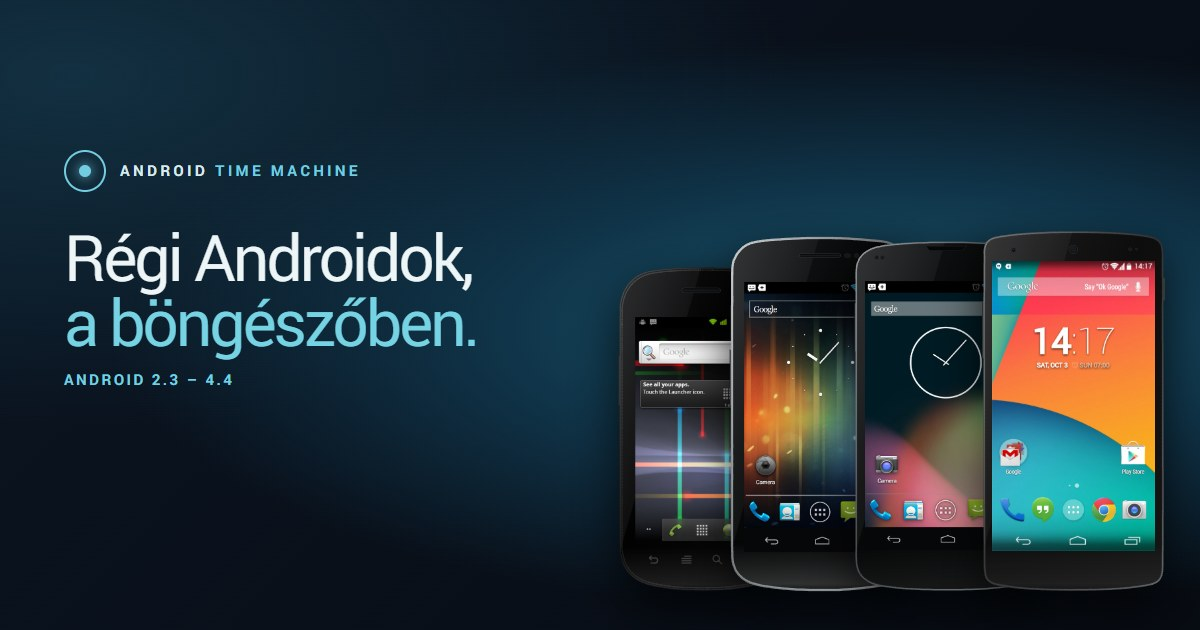
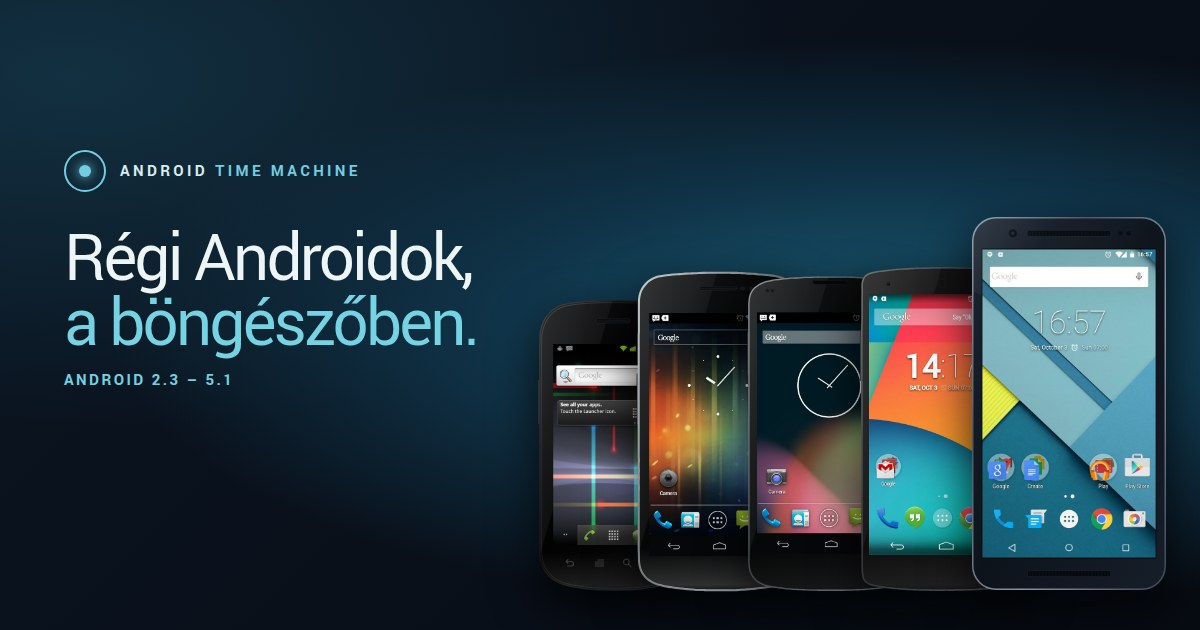
Lollipop 5.1.1 release: catalog entry available, landing shot, page header and five-phone og cover
- The catalog card is AVAILABLE with a new description and a landing shot
  of the stock Nexus 6 home.
- The 5.1.1 page header, meta tags and footer now describe Lollipop on the
  Nexus 6 (English, Hungarian, German, French and Spanish).
- The og cover adds the Nexus 6 (Android 2.3 – 5.1); every page points to
  og-cover.jpg?v=7.
- Drops the unused "on its way" placeholder strings.

Changed region(s): [[0.4317, 0.3317, 0.9867, 0.9349], [0.0617, 0.3619, 0.4008, 0.573], [0.5858, 0.9349, 0.6167, 0.9651]]

diff --git a/i18n.js b/i18n.js
@@ -592,9 +592,7 @@
     ['Tomorrow','Holnap','Morgen','Demain','Mañana'],
     ["IN PROGRESS","KÉSZÜLŐBEN","IN ARBEIT","EN COURS","EN DESARROLLO"],
     ["WORK IN PROGRESS","KÉSZÜLŐBEN","IN ARBEIT","EN COURS DE CRÉATION","EN DESARROLLO"],
-    ["Material Design on the Nexus 6: the new notification shade, heads-up notifications, Overview cards and Smart Lock.","Material Design a Nexus 6-on: új értesítési panel, felugró értesítések, Áttekintés-kártyák és Smart Lock.","Material Design auf dem Nexus 6: neue Benachrichtigungsleiste, Heads-up-Benachrichtigungen, Übersichtskarten und Smart Lock.","Material Design sur le Nexus 6 : nouveau volet des notifications, notifications prioritaires, cartes Aperçu et Smart Lock.","Material Design en el Nexus 6: nuevo panel de notificaciones, notificaciones emergentes, tarjetas de Vista general y Smart Lock."],
-    ["Android 5.1.1 Lollipop on the Nexus 6 is on its way: Material Design, the new notification shade with heads-up notifications, the Overview cards and Smart Lock. Until it is ready, the phone is busy updating itself.","Az Android 5.1.1 Lollipop a Nexus 6-on úton van: Material Design, az új értesítési panel felugró értesítésekkel, az Áttekintés-kártyák és a Smart Lock. Amíg elkészül, a telefon épp frissíti magát.","Android 5.1.1 Lollipop auf dem Nexus 6 ist unterwegs: Material Design, die neue Benachrichtigungsleiste mit Heads-up-Benachrichtigungen, die Übersichtskarten und Smart Lock. Bis es so weit ist, aktualisiert sich das Telefon gerade selbst.","Android 5.1.1 Lollipop sur le Nexus 6 arrive bientôt : Material Design, le nouveau volet des notifications avec les notifications prioritaires, les cartes Aperçu et Smart Lock. En attendant, le téléphone est en pleine mise à jour.","Android 5.1.1 Lollipop en el Nexus 6 está en camino: Material Design, el nuevo panel de notificaciones con notificaciones emergentes, las tarjetas de Vista general y Smart Lock. Mientras tanto, el teléfono se está actualizando."],
-    ["This version cannot be used yet. The other versions are available on the home page.","Ez a verzió még nem használható. A többi verzió a kezdőlapon érhető el.","Diese Version ist noch nicht nutzbar. Die anderen Versionen finden Sie auf der Startseite.","Cette version n'est pas encore utilisable. Les autres versions sont disponibles sur la page d'accueil.","Esta versión todavía no se puede usar. Las demás versiones están disponibles en la página de inicio."],
+    ["Material Design with the Google Now Launcher, the new notification shade, heads-up notifications, Overview cards, Smart Lock and the Lollipop Land easter egg.","Material Design a Google Now Launcherrel, új értesítési panel, felugró értesítések, Áttekintés-kártyák, Smart Lock és a Lollipop Land húsvéti tojás.","Material Design mit dem Google Now Launcher, neue Benachrichtigungsleiste, Heads-up-Benachrichtigungen, Übersichtskarten, Smart Lock und das Lollipop-Land-Easter-Egg.","Material Design avec le Google Now Launcher, nouveau volet des notifications, notifications prioritaires, cartes Aperçu, Smart Lock et l'easter egg Lollipop Land.","Material Design con Google Now Launcher, nuevo panel de notificaciones, notificaciones emergentes, tarjetas de Vista general, Smart Lock y el huevo de Pascua Lollipop Land."],
     ["English (US)","Angol (USA)","Englisch (USA)","Anglais (États-Unis)","Inglés (EE. UU.)"],
     ["Speak now","Beszéljen most","Jetzt sprechen","Parlez maintenant","Habla ahora"],
     ["Didn’t catch that. Try speaking again.","Nem értettem. Próbálja újra.","Das habe ich nicht verstanden. Versuchen Sie es noch einmal.","Je n'ai pas compris. Veuillez réessayer.","No te he entendido. Vuelve a intentarlo."],
@@ -829,6 +827,8 @@
     ["To create one like this, touch & hold an app, then move it over another.","Mappa létrehozásához érintse meg és tartsa lenyomva az alkalmazást, majd húzza egy másik fölé.","Um einen Ordner zu erstellen, berühren und halten Sie eine App und verschieben Sie sie auf eine andere.","Pour en créer un, appuyez de manière prolongée sur une application, puis déplacez-la vers une autre.","Para crear una carpeta como esta, mantén pulsada una aplicación y muévela sobre otra."],
     ["Android 4.4 KitKat as it ran on the Nexus 5 in 2014. Translucent system bars, the white status icons, swipe between home screens, open the apps, or look for the KitKat logo under Settings → About phone.","Az Android 4.4 KitKat, ahogy 2014-ben a Nexus 5-ön futott. Áttetsző rendszersávok, fehér állapotikonok; lapozzon a kezdőképernyők között, nyissa meg az alkalmazásokat, vagy keresse meg a KitKat logót a Beállítások → A telefonról menüben.","Android 4.4 KitKat, wie es 2014 auf dem Nexus 5 lief. Transparente Systemleisten, weiße Statussymbole; wischen Sie zwischen den Startbildschirmen, öffnen Sie die Apps oder suchen Sie das KitKat-Logo unter Einstellungen → Über das Telefon.","Android 4.4 KitKat tel qu'il fonctionnait sur le Nexus 5 en 2014. Barres système translucides, icônes d'état blanches ; balayez entre les écrans d'accueil, ouvrez les applications ou cherchez le logo KitKat dans Paramètres → À propos du téléphone.","Android 4.4 KitKat tal como funcionaba en el Nexus 5 en 2014. Barras del sistema translúcidas e iconos de estado blancos; desliza entre pantallas de inicio, abre las aplicaciones o busca el logotipo de KitKat en Ajustes → Información del teléfono."],
     ["Browser simulator inspired by AOSP Android 4.4","Az AOSP Android 4.4 ihlette böngészős szimulátor","Browser-Simulator nach dem Vorbild von AOSP Android 4.4","Simulateur web inspiré d'AOSP Android 4.4","Simulador web inspirado en AOSP Android 4.4"],
+    ["Android 5.1 Lollipop as it ran on the Nexus 6 in 2015. Material Design, heads-up notifications and the Overview cards; swipe between home screens, open the apps, or tap the version under Settings → About phone a few times.","Az Android 5.1 Lollipop, ahogy 2015-ben a Nexus 6-on futott. Material Design, felugró értesítések és az Áttekintés-kártyák; lapozzon a kezdőképernyők között, nyissa meg az alkalmazásokat, vagy koppintson néhányszor a verzióra a Beállítások → A telefonról menüben.","Android 5.1 Lollipop, wie es 2015 auf dem Nexus 6 lief. Material Design, Heads-up-Benachrichtigungen und die Übersichtskarten; wischen Sie zwischen den Startbildschirmen, öffnen Sie die Apps oder tippen Sie unter Einstellungen → Über das Telefon mehrmals auf die Version.","Android 5.1 Lollipop tel qu'il fonctionnait sur le Nexus 6 en 2015. Material Design, notifications prioritaires et cartes Aperçu ; balayez entre les écrans d'accueil, ouvrez les applications ou appuyez plusieurs fois sur la version dans Paramètres → À propos du téléphone.","Android 5.1 Lollipop tal como funcionaba en el Nexus 6 en 2015. Material Design, notificaciones emergentes y tarjetas de Vista general; desliza entre pantallas de inicio, abre las aplicaciones o toca varias veces la versión en Ajustes → Información del teléfono."],
+    ["Browser simulator inspired by AOSP Android 5.1","Az AOSP Android 5.1 ihlette böngészős szimulátor","Browser-Simulator nach dem Vorbild von AOSP Android 5.1","Simulateur web inspiré d'AOSP Android 5.1","Simulador web inspirado en AOSP Android 5.1"],
     ["Work in progress: the Nexus 5 with translucent system bars, white status icons and the KitKat easter egg.","Készülőben: a Nexus 5 áttetsző rendszersávokkal, fehér állapotikonokkal és a KitKat húsvéti tojással.","In Arbeit: das Nexus 5 mit transparenten Systemleisten, weißen Statussymbolen und dem KitKat-Easter-Egg.","En cours : le Nexus 5 avec ses barres système translucides, ses icônes d'état blanches et l'easter egg KitKat.","En desarrollo: el Nexus 5 con barras del sistema translúcidas, iconos de estado blancos y el huevo de Pascua de KitKat."],
     ["Nexus 5 · Google","Nexus 5 · Google","Nexus 5 · Google","Nexus 5 · Google","Nexus 5 · Google"],
     ["Connected to %1$s","Csatlakozva: %1$s","Verbunden mit %1$s","Connecté à %1$s","Conectado a %1$s"],

diff --git a/versions/5.1.1/index.html b/versions/5.1.1/index.html
@@ -4,19 +4,19 @@
   <meta charset="utf-8">
   <meta name="viewport" content="width=device-width, initial-scale=1, viewport-fit=cover, interactive-widget=resizes-content">
   <meta name="theme-color" content="#080b10">
-  <meta name="description" content="Android 4.4.4 KitKat szimulátor a gyári Nexus 5-ön: Google Now Launcher, Google Now, Hangouts, Chrome, áttetsző rendszersávok és a Dessert Case húsvéti tojás.">
-  <title>Android 4.4.4 · Android Time Machine</title>
+  <meta name="description" content="Android 5.1.1 Lollipop szimulátor a gyári Nexus 6-on: Material Design, Google Now Launcher, felugró értesítések, Áttekintés-kártyák, Smart Lock és a Lollipop Land húsvéti tojás.">
+  <title>Android 5.1.1 · Android Time Machine</title>
   <meta property="og:type" content="website">
   <meta property="og:site_name" content="Android Time Machine">
   <meta property="og:locale" content="hu_HU">
-  <meta property="og:title" content="Android 4.4.4 KitKat – Nexus 5 szimulátor">
-  <meta property="og:description" content="Google Now Launcher, Google Now, Hangouts, Chrome, áttetsző rendszersávok és a Dessert Case húsvéti tojás.">
-  <meta property="og:url" content="https://android.levente.net/versions/4.4.4/">
-  <meta property="og:image" content="https://android.levente.net/assets/og-cover.jpg?v=6">
+  <meta property="og:title" content="Android 5.1.1 Lollipop – Nexus 6 szimulátor">
+  <meta property="og:description" content="Material Design, Google Now Launcher, felugró értesítések, Áttekintés-kártyák, Smart Lock és a Lollipop Land húsvéti tojás.">
+  <meta property="og:url" content="https://android.levente.net/versions/5.1.1/">
+  <meta property="og:image" content="https://android.levente.net/assets/og-cover.jpg?v=7">
   <meta property="og:image:type" content="image/jpeg">
   <meta property="og:image:width" content="1200">
   <meta property="og:image:height" content="630">
-  <meta property="og:image:alt" content="Négy Nexus telefon egymás mellett a saját Android-verziójával: Nexus S (2.3), Galaxy Nexus (4.0), Nexus 4 (4.3) és Nexus 5 (4.4), mellettük az Android Time Machine felirat.">
+  <meta property="og:image:alt" content="Öt Nexus telefon egymás mellett a saját Android-verziójával: Nexus S (2.3), Galaxy Nexus (4.0), Nexus 4 (4.3), Nexus 5 (4.4) és Nexus 6 (5.1), mellettük az Android Time Machine felirat.">
   <meta name="twitter:card" content="summary_large_image">
   <link rel="icon" type="image/svg+xml" href="../../favicon.svg">
   <link rel="stylesheet" href="style.css?v=19">
@@ -82,7 +82,7 @@
   <link rel="stylesheet" href="jb-gallery.css?v=2">
   <link rel="stylesheet" href="lp-settings.css?v=1">
   <link rel="stylesheet" href="lp-dialogs.css?v=1">
-  <script defer src="../../i18n.js?v=73"></script>
+  <script defer src="../../i18n.js?v=74"></script>
   <script defer src="lp-strings.js?v=1"></script>
   <script defer src="calculator-engine.js?v=1"></script>
   <script defer src="play-store.js?v=2"></script>
@@ -147,14 +147,14 @@
     <main class="workspace">
       <section class="intro-panel" aria-labelledby="sim-title">
         <span class="eyebrow"><span class="pulse"></span> <span data-i18n="AOSP IN THE BROWSER">AOSP IN THE BROWSER</span></span>
-        <h1 id="sim-title">Kit<br><strong>Kat</strong></h1>
-        <p class="version-number" data-no-translate>ANDROID 4.4.4 <span>·</span> NEXUS 5 <span>·</span> 2014</p>
-        <p class="description" data-i18n="Android 4.4 KitKat as it ran on the Nexus 5 in 2014. Translucent system bars, the white status icons, swipe between home screens, open the apps, or look for the KitKat logo under Settings → About phone.">Android 4.4 KitKat as it ran on the Nexus 5 in 2014. Translucent system bars, the white status icons, swipe between home screens, open the apps, or look for the KitKat logo under Settings → About phone.</p>
+        <h1 id="sim-title">Lolli<br><strong>pop</strong></h1>
+        <p class="version-number" data-no-translate>ANDROID 5.1.1 <span>·</span> NEXUS 6 <span>·</span> 2015</p>
+        <p class="description" data-i18n="Android 5.1 Lollipop as it ran on the Nexus 6 in 2015. Material Design, heads-up notifications and the Overview cards; swipe between home screens, open the apps, or tap the version under Settings → About phone a few times.">Android 5.1 Lollipop as it ran on the Nexus 6 in 2015. Material Design, heads-up notifications and the Overview cards; swipe between home screens, open the apps, or tap the version under Settings → About phone a few times.</p>
         <div class="key-list"><div><span class="key-icon"><svg viewBox="0 0 24 24" aria-hidden="true"><path d="M4 12h16M8 8l-4 4 4 4M16 8l4 4-4 4"/></svg></span><span data-i18n="Swipe between home screens">Swipe between home screens</span></div><div><span class="key-icon"><svg viewBox="0 0 24 24" aria-hidden="true"><path d="M7 10l5 5 5-5"/></svg></span><span data-i18n="Pull down notifications">Pull down notifications</span></div><div><span class="key-icon"><svg viewBox="0 0 24 24" aria-hidden="true"><path d="M4 11.5 12 5l8 6.5M6.5 10v9h11v-9"/></svg></span><span data-i18n="Home · Back · Recent apps">Home · Back · Recent apps</span></div></div>
         <p class="offline-note" data-i18n="Calls, messages and websites are simulated. Your changes are saved in this browser.">Calls, messages and websites are simulated. Your changes are saved in this browser.</p>
       </section>
 
-      <section class="device-area" aria-label="Android 4.4.4 simulator">
+      <section class="device-area" aria-label="Android 5.1.1 simulator">
         <div class="device" id="device">
           <div class="volume-rocker" aria-hidden="true"></div><div class="power-key" aria-hidden="true"></div><div class="notification-led" aria-hidden="true"></div>
           <div class="proximity-sensor" aria-hidden="true"></div><div class="earpiece" aria-hidden="true"></div><div class="front-camera" aria-hidden="true"></div>
@@ -169,7 +169,7 @@
         </div>
       </section>
     </main>
-    <footer class="site-footer"><span data-i18n="Browser simulator inspired by AOSP Android 4.4">Browser simulator inspired by AOSP Android 4.4</span><span data-i18n="Android is a trademark of Google.">Android is a trademark of Google.</span></footer>
+    <footer class="site-footer"><span data-i18n="Browser simulator inspired by AOSP Android 5.1">Browser simulator inspired by AOSP Android 5.1</span><span data-i18n="Android is a trademark of Google.">Android is a trademark of Google.</span></footer>
   </div>
 </body>
 </html>

diff --git a/docs/og-cover.html b/docs/og-cover.html
@@ -15,7 +15,7 @@ h1{margin:34px 0 14px;font:400 64px/1.02 Roboto,Arial;letter-spacing:-.045em}
 h1 strong{display:block;font-weight:400;color:#75d3e3}
 .range{font:700 15px RobotoBold,Arial;letter-spacing:.16em;color:#74d0e0}
 .phones{position:absolute;right:34px;bottom:40px;display:flex;align-items:flex-end}
-.phone{position:relative;flex:none;margin-left:-58px;filter:drop-shadow(0 18px 24px #000c)}
+.phone{position:relative;flex:none;margin-left:-54px;filter:drop-shadow(0 18px 24px #000c)}
 .phone:first-child{margin-left:0}
 .phone>img.frame{position:absolute;inset:0;width:100%;height:100%;z-index:1}
 .phone>.shot{position:absolute;background:center/cover no-repeat;z-index:2}
@@ -24,22 +24,23 @@ h1 strong{display:block;font-weight:400;color:#75d3e3}
 <div class="text">
   <div class="brand"><i></i><div>ANDROID <span>TIME MACHINE</span></div></div>
   <h1>Régi Androidok,<strong>a böngészőben.</strong></h1>
-  <div class="range">ANDROID 2.3 – 4.4</div>
+  <div class="range">ANDROID 2.3 – 5.1</div>
 </div>
 <div class="phones" id="phones"></div>
 <script>
-const mm = 2.6;
+const mm = 2.34;
 // [version, frame, SVG width / height, real height in mm, screen insets %, body top and bottom in SVG units, picture]
 // The SVGs have a margin round the body (side keys, shadow), so the body, not the whole drawing, is scaled to the real height.
 const phones = [
   ['2.3.6', 'device-nexus-s.svg', 349.3 / 675.33, 123.9, [15.89, 15.99, 10.49, 10.49], [5.9, 669.3], 'landing-home.jpg'],
   ['4.0.4', 'device-galaxy-nexus.svg', 368.15 / 721.32, 135.5, [13.15, 11.44, 8.21, 8.67], [5.9, 715.5], 'landing-home.jpg'],
   ['4.3', 'device-nexus-4.svg', 374.77 / 722.2, 133.9, [11.86, 12.68, 6.37, 6.37], [6.8, 711.6], 'landing-home.jpg'],
-  ['4.4.4', 'device-nexus-5.svg', 370.57 / 728.24, 137.84, [8.83, 11.53, 5.94, 6.02], [6.2, 722.2], 'landing-home.jpg']
+  ['4.4.4', 'device-nexus-5.svg', 370.57 / 728.24, 137.84, [8.83, 11.53, 5.94, 6.02], [6.2, 722.2], 'landing-home.jpg'],
+  ['5.1.1', 'device-nexus-6.svg', 416.75 / 799.85, 159.26, [8.57, 8.57, 5.28, 5.28], [0, 799.85], 'landing-home.jpg']
 ];
 const root = document.getElementById('phones');
 phones.forEach(([v, frame, ratio, height, [t, b, l, r], [top, bottom], shot], i) => {
-  const svgH = {'device-nexus-s.svg': 675.33, 'device-galaxy-nexus.svg': 721.32, 'device-nexus-4.svg': 722.2, 'device-nexus-5.svg': 728.24}[frame];
+  const svgH = {'device-nexus-s.svg': 675.33, 'device-galaxy-nexus.svg': 721.32, 'device-nexus-4.svg': 722.2, 'device-nexus-5.svg': 728.24, 'device-nexus-6.svg': 799.85}[frame];
   const h = height * mm * svgH / (bottom - top), w = h * ratio, el = document.createElement('div');
   // The bodies, not the drawings, stand on one line.
   el.className = 'phone'; el.style.cssText = `width:${w}px;height:${h}px;margin-bottom:${-(svgH - bottom) / svgH * h}px;z-index:${10 + i}`;

diff --git a/index.html b/index.html
@@ -4,24 +4,24 @@
   <meta charset="utf-8">
   <meta name="viewport" content="width=device-width, initial-scale=1">
   <meta name="theme-color" content="#090d17">
-  <meta name="description" content="Régi Android-verziók a böngészőben: a Gingerbread, az Ice Cream Sandwich, a Jelly Bean és a KitKat azon a Nexus telefonon, amelyen megjelent. Telepítés nélkül, azonnal.">
+  <meta name="description" content="Régi Android-verziók a böngészőben: a Gingerbread, az Ice Cream Sandwich, a Jelly Bean, a KitKat és a Lollipop azon a Nexus telefonon, amelyen megjelent. Telepítés nélkül, azonnal.">
   <title>Android Time Machine</title>
   <meta property="og:type" content="website">
   <meta property="og:site_name" content="Android Time Machine">
   <meta property="og:locale" content="hu_HU">
   <meta property="og:title" content="Android Time Machine – régi Androidok a böngészőben">
-  <meta property="og:description" content="Android 2.3–4.4 a Nexus S-en, a Galaxy Nexuson, a Nexus 4-en és a Nexus 5-ön: kezdőképernyő, értesítések, beállítások és alkalmazások – telepítés nélkül.">
+  <meta property="og:description" content="Android 2.3–5.1 a Nexus S-en, a Galaxy Nexuson, a Nexus 4-en, a Nexus 5-ön és a Nexus 6-on: kezdőképernyő, értesítések, beállítások és alkalmazások – telepítés nélkül.">
   <meta property="og:url" content="https://android.levente.net/">
-  <meta property="og:image" content="https://android.levente.net/assets/og-cover.jpg?v=6">
+  <meta property="og:image" content="https://android.levente.net/assets/og-cover.jpg?v=7">
   <meta property="og:image:type" content="image/jpeg">
   <meta property="og:image:width" content="1200">
   <meta property="og:image:height" content="630">
-  <meta property="og:image:alt" content="Négy Nexus telefon egymás mellett a saját Android-verziójával: Nexus S (2.3), Galaxy Nexus (4.0), Nexus 4 (4.3) és Nexus 5 (4.4), mellettük az Android Time Machine felirat.">
+  <meta property="og:image:alt" content="Öt Nexus telefon egymás mellett a saját Android-verziójával: Nexus S (2.3), Galaxy Nexus (4.0), Nexus 4 (4.3), Nexus 5 (4.4) és Nexus 6 (5.1), mellettük az Android Time Machine felirat.">
   <meta name="twitter:card" content="summary_large_image">
   <link rel="icon" type="image/svg+xml" href="favicon.svg">
   <link rel="stylesheet" href="styles.css?v=19">
-  <script defer src="i18n.js?v=66"></script>
-  <script defer src="versions/catalog.js?v=22"></script>
+  <script defer src="i18n.js?v=74"></script>
+  <script defer src="versions/catalog.js?v=23"></script>
   <script defer src="app.js?v=11"></script>
 </head>
 <body>

diff --git a/versions/2.3.6/index.html b/versions/2.3.6/index.html
@@ -12,11 +12,11 @@
   <meta property="og:title" content="Android 2.3.6 Gingerbread – Nexus S szimulátor">
   <meta property="og:description" content="Érintőgombok az üveg alatt, csúszkás zárolóképernyő, a Menü gombbal nyíló opciópanelek, zöld állapotikonok és a zombi Gingerbread húsvéti tojás.">
   <meta property="og:url" content="https://android.levente.net/versions/2.3.6/">
-  <meta property="og:image" content="https://android.levente.net/assets/og-cover.jpg?v=6">
+  <meta property="og:image" content="https://android.levente.net/assets/og-cover.jpg?v=7">
   <meta property="og:image:type" content="image/jpeg">
   <meta property="og:image:width" content="1200">
   <meta property="og:image:height" content="630">
-  <meta property="og:image:alt" content="Négy Nexus telefon egymás mellett a saját Android-verziójával: Nexus S (2.3), Galaxy Nexus (4.0), Nexus 4 (4.3) és Nexus 5 (4.4), mellettük az Android Time Machine felirat.">
+  <meta property="og:image:alt" content="Öt Nexus telefon egymás mellett a saját Android-verziójával: Nexus S (2.3), Galaxy Nexus (4.0), Nexus 4 (4.3), Nexus 5 (4.4) és Nexus 6 (5.1), mellettük az Android Time Machine felirat.">
   <meta name="twitter:card" content="summary_large_image">
   <link rel="icon" type="image/svg+xml" href="../../favicon.svg">
   <link rel="stylesheet" href="style.css?v=43">

diff --git a/versions/4.0.4/index.html b/versions/4.0.4/index.html
@@ -12,11 +12,11 @@
   <meta property="og:title" content="Android 4.0.4 Ice Cream Sandwich – Galaxy Nexus szimulátor">
   <meta property="og:description" content="Holo dizájn, képernyős navigációs gombok, mappák, kamera a zárolóképernyőről és a Nyandroid húsvéti tojás.">
   <meta property="og:url" content="https://android.levente.net/versions/4.0.4/">
-  <meta property="og:image" content="https://android.levente.net/assets/og-cover.jpg?v=6">
+  <meta property="og:image" content="https://android.levente.net/assets/og-cover.jpg?v=7">
   <meta property="og:image:type" content="image/jpeg">
   <meta property="og:image:width" content="1200">
   <meta property="og:image:height" content="630">
-  <meta property="og:image:alt" content="Négy Nexus telefon egymás mellett a saját Android-verziójával: Nexus S (2.3), Galaxy Nexus (4.0), Nexus 4 (4.3) és Nexus 5 (4.4), mellettük az Android Time Machine felirat.">
+  <meta property="og:image:alt" content="Öt Nexus telefon egymás mellett a saját Android-verziójával: Nexus S (2.3), Galaxy Nexus (4.0), Nexus 4 (4.3), Nexus 5 (4.4) és Nexus 6 (5.1), mellettük az Android Time Machine felirat.">
   <meta name="twitter:card" content="summary_large_image">
   <link rel="icon" type="image/svg+xml" href="../../favicon.svg">
   <link rel="stylesheet" href="style.css?v=40">

diff --git a/versions/4.3/index.html b/versions/4.3/index.html
@@ -12,11 +12,11 @@
   <meta property="og:title" content="Android 4.3 Jelly Bean – Nexus 4 szimulátor">
   <meta property="og:description" content="Kinyitható értesítések, gyorsbeállítások, widgetek a zárolóképernyőn, Daydream és a BeanBag húsvéti tojás.">
   <meta property="og:url" content="https://android.levente.net/versions/4.3/">
-  <meta property="og:image" content="https://android.levente.net/assets/og-cover.jpg?v=6">
+  <meta property="og:image" content="https://android.levente.net/assets/og-cover.jpg?v=7">
   <meta property="og:image:type" content="image/jpeg">
   <meta property="og:image:width" content="1200">
   <meta property="og:image:height" content="630">
-  <meta property="og:image:alt" content="Négy Nexus telefon egymás mellett a saját Android-verziójával: Nexus S (2.3), Galaxy Nexus (4.0), Nexus 4 (4.3) és Nexus 5 (4.4), mellettük az Android Time Machine felirat.">
+  <meta property="og:image:alt" content="Öt Nexus telefon egymás mellett a saját Android-verziójával: Nexus S (2.3), Galaxy Nexus (4.0), Nexus 4 (4.3), Nexus 5 (4.4) és Nexus 6 (5.1), mellettük az Android Time Machine felirat.">
   <meta name="twitter:card" content="summary_large_image">
   <link rel="icon" type="image/svg+xml" href="../../favicon.svg">
   <link rel="stylesheet" href="style.css?v=16">

diff --git a/versions/4.4.4/index.html b/versions/4.4.4/index.html
@@ -12,11 +12,11 @@
   <meta property="og:title" content="Android 4.4.4 KitKat – Nexus 5 szimulátor">
   <meta property="og:description" content="Google Now Launcher, Google Now, Hangouts, Chrome, áttetsző rendszersávok és a Dessert Case húsvéti tojás.">
   <meta property="og:url" content="https://android.levente.net/versions/4.4.4/">
-  <meta property="og:image" content="https://android.levente.net/assets/og-cover.jpg?v=6">
+  <meta property="og:image" content="https://android.levente.net/assets/og-cover.jpg?v=7">
   <meta property="og:image:type" content="image/jpeg">
   <meta property="og:image:width" content="1200">
   <meta property="og:image:height" content="630">
-  <meta property="og:image:alt" content="Négy Nexus telefon egymás mellett a saját Android-verziójával: Nexus S (2.3), Galaxy Nexus (4.0), Nexus 4 (4.3) és Nexus 5 (4.4), mellettük az Android Time Machine felirat.">
+  <meta property="og:image:alt" content="Öt Nexus telefon egymás mellett a saját Android-verziójával: Nexus S (2.3), Galaxy Nexus (4.0), Nexus 4 (4.3), Nexus 5 (4.4) és Nexus 6 (5.1), mellettük az Android Time Machine felirat.">
   <meta name="twitter:card" content="summary_large_image">
   <link rel="icon" type="image/svg+xml" href="../../favicon.svg">
   <link rel="stylesheet" href="style.css?v=19">

diff --git a/versions/catalog.js b/versions/catalog.js
@@ -51,9 +51,9 @@ window.ANDROID_VERSIONS = [
     version: 'Android 5.1.1',
     year: '2015',
     device: 'Nexus 6 · Google',
-    description: 'Material Design on the Nexus 6: the new notification shade, heads-up notifications, Overview cards and Smart Lock.',
+    description: 'Material Design with the Google Now Launcher, the new notification shade, heads-up notifications, Overview cards, Smart Lock and the Lollipop Land easter egg.',
     url: 'versions/5.1.1/',
-    status: 'preview',
-    art: {shot: 'landing-home.jpg?v=1', phone: 'nexus6'}
+    status: 'available',
+    art: {shot: 'landing-home.jpg?v=2', phone: 'nexus6'}
   }
 ];
